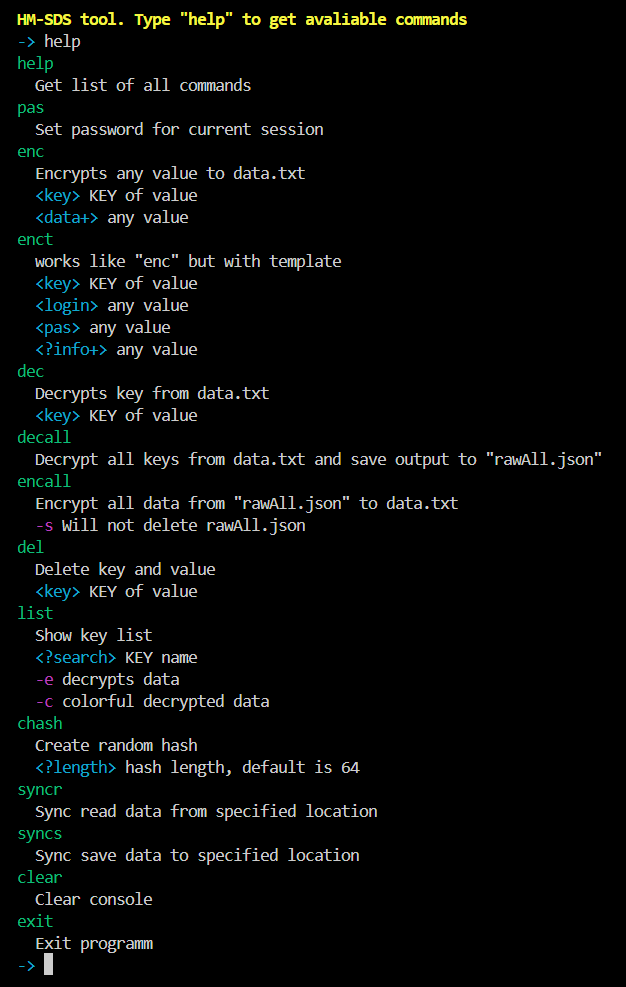
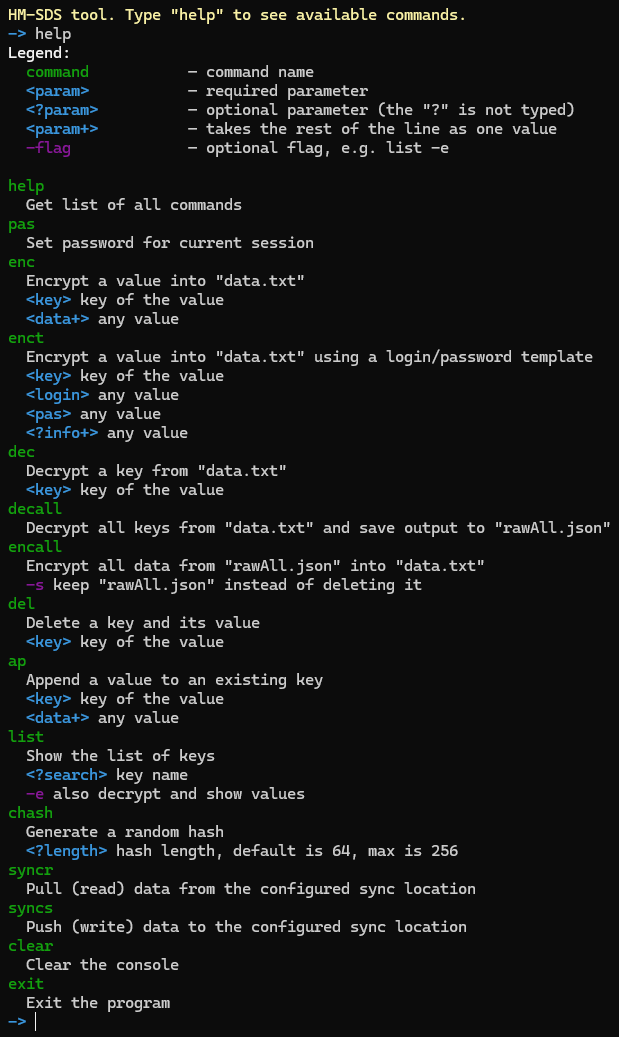
feat: 2.1.2, legend in help command & user text update & readme update

Changed region(s): [[0.0, 0.0, 0.9822, 1.0], [0.5218, 0.3343, 0.9515, 0.3647], [0.1842, 0.0608, 0.2149, 0.0912]]

diff --git a/index.js b/index.js
@@ -93,7 +93,9 @@ class CommandsManager {
 					result(res);
 				}
 			} else {
-				console.log("No command");
+				console.log(
+					FgRed + `Unknown command "${name}". Type "help" for a list.` + Reset,
+				);
 				result();
 			}
 		});
@@ -131,7 +133,7 @@ const initMessage = () => {
 	console.log(
 		Bright +
 			FgYellow +
-			'HM-SDS tool. Type "help" to get avaliable commands' +
+			'HM-SDS tool. Type "help" to see available commands.' +
 			Reset,
 	);
 };
@@ -139,7 +141,9 @@ const initMessage = () => {
 const passCheck = () => {
 	if (!password) {
 		console.log(
-			FgRed + 'Enter password before performing operation, type "pas"' + Reset,
+			FgRed +
+				'A password is required for this command. Type "pas" to set it.' +
+				Reset,
 		);
 		return false;
 	}
@@ -162,10 +166,10 @@ const paramsCheck = (command, params) => {
 
 		console.log(
 			FgRed +
-				"missing param" +
+				"Missing required parameter" +
 				Reset +
 				FgCyan +
-				` <${missingParam[0]}> ` +
+				` <${missingParam[0].replace(/^\?/, "")}> ` +
 				Reset +
 				`${missingParam[1]}`,
 		);
@@ -280,6 +284,33 @@ CM.add({
 		let result = "";
 		const keys = Object.keys(CM.commands);
 
+		const legend =
+			Bright +
+			"Legend:\n" +
+			Reset +
+			FgGreen +
+			"  command" +
+			Reset +
+			"           — command name\n" +
+			FgCyan +
+			"  <param>" +
+			Reset +
+			"           — required parameter\n" +
+			FgCyan +
+			"  <?param>" +
+			Reset +
+			'          — optional parameter (the "?" is not typed)\n' +
+			FgCyan +
+			"  <param+>" +
+			Reset +
+			"          — takes the rest of the line as one value\n" +
+			FgMagenta +
+			"  -flag" +
+			Reset +
+			"             — optional flag, e.g. list -e\n";
+
+		result += legend + "\n";
+
 		keys.forEach((key, i) => {
 			const command = CM.commands[key];
 
@@ -320,17 +351,16 @@ CM.add({
 			if (password) {
 				console.log(
 					FgYellow +
-						`Already typed :/` +
+						`A password is already set for this session.` +
 						Reset +
-						`\nTo set another password, follow this:
+						`\nTo change it, do the following:
 1. turn off autosync if you have it enabled
-2. backup "${DATA_FILE_NAME}"
-3. execute "decall" command
+2. back up "${DATA_FILE_NAME}"
+3. run "decall"
 4. delete "${DATA_FILE_NAME}"
-5. restart cli
-6. execute "pas" command and type new password
-7. execute "encall" command
-Profffffit`,
+5. restart the CLI
+6. run "pas" and type the new password
+7. run "encall"`,
 				);
 				return resolve();
 			}
@@ -382,9 +412,9 @@ Profffffit`,
 CM.add({
 	name: "enc",
 	description: {
-		main: `Encrypts any value to "${DATA_FILE_NAME}"`,
+		main: `Encrypt a value into "${DATA_FILE_NAME}"`,
 		params: [
-			["key", "KEY of value"],
+			["key", "key of the value"],
 			["data+", "any value"],
 		],
 		args: [],
@@ -404,9 +434,9 @@ CM.add({
 CM.add({
 	name: "enct",
 	description: {
-		main: `Encrypts any value to "${DATA_FILE_NAME}" with template`,
+		main: `Encrypt a value into "${DATA_FILE_NAME}" using a login/password template`,
 		params: [
-			["key", "KEY of value"],
+			["key", "key of the value"],
 			["login", "any value"],
 			["pas", "any value"],
 			["?info+", "any value"],
@@ -432,8 +462,8 @@ CM.add({
 CM.add({
 	name: "dec",
 	description: {
-		main: `Decrypts key from "${DATA_FILE_NAME}"`,
-		params: [["key", "KEY of value"]],
+		main: `Decrypt a key from "${DATA_FILE_NAME}"`,
+		params: [["key", "key of the value"]],
 		args: [],
 	},
 	callback: (params) => {
@@ -468,7 +498,7 @@ CM.add({
 
 		console.log(
 			FgGreen +
-				`Succesfuly decrypted all data to "${RAW_DATA_FILE_NAME}"` +
+				`Successfully decrypted all data to "${RAW_DATA_FILE_NAME}"` +
 				Reset,
 		);
 	},
@@ -477,9 +507,9 @@ CM.add({
 CM.add({
 	name: "encall",
 	description: {
-		main: `Encrypt all data from "${RAW_DATA_FILE_NAME}" to "${DATA_FILE_NAME}"`,
+		main: `Encrypt all data from "${RAW_DATA_FILE_NAME}" into "${DATA_FILE_NAME}"`,
 		params: [],
-		args: [["-s", `Will not delete "${RAW_DATA_FILE_NAME}"`]],
+		args: [["-s", `keep "${RAW_DATA_FILE_NAME}" instead of deleting it`]],
 	},
 	callback: (_, flags) => {
 		const dirData = getDirData();
@@ -502,15 +532,15 @@ CM.add({
 
 		saveData();
 
-		console.log(FgGreen + "Succesfuly encrypted all data" + Reset);
+		console.log(FgGreen + "Successfully encrypted all data" + Reset);
 	},
 });
 
 CM.add({
 	name: "del",
 	description: {
-		main: "Delete key and value",
-		params: [["key", "KEY of value"]],
+		main: "Delete a key and its value",
+		params: [["key", "key of the value"]],
 		args: [],
 	},
 	callback: (params) => {
@@ -530,9 +560,9 @@ CM.add({
 CM.add({
 	name: "ap",
 	description: {
-		main: "Append value to KEY",
+		main: "Append a value to an existing key",
 		params: [
-			["key", "KEY of value"],
+			["key", "key of the value"],
 			["data+", "any value"],
 		],
 		args: [],
@@ -555,9 +585,9 @@ CM.add({
 CM.add({
 	name: "list",
 	description: {
-		main: "Show key list",
-		params: [["?search", "KEY name"]],
-		args: [["-e", "decrypts data"]],
+		main: "Show the list of keys",
+		params: [["?search", "key name"]],
+		args: [["-e", "also decrypt and show values"]],
 	},
 	callback: (params, flags) => {
 		const keys = Object.keys(data);
@@ -596,24 +626,20 @@ CM.add({
 CM.add({
 	name: "chash",
 	description: {
-		main: "Create random hash",
-		params: [["?length", "hash length, default is 64"]],
+		main: "Generate a random hash",
+		params: [["?length", "hash length, default is 64, max is 256"]],
 		args: [],
 	},
 	callback: async (params) => {
 		const hashLength = Number(params[0]);
 
 		if (params[0]) {
-			if (!hashLength) {
-				return console.log(FgRed + "Wrong length" + Reset);
-			}
-
-			if (isNaN(hashLength)) {
-				return console.log(FgRed + "Length is not a number" + Reset);
+			if (isNaN(hashLength) || !hashLength) {
+				return console.log(FgRed + "Length must be a positive number" + Reset);
 			}
 
 			if (hashLength > 256) {
-				return console.log(FgRed + "Length must be less than 256" + Reset);
+				return console.log(FgRed + "Length must not exceed 256" + Reset);
 			}
 
 			if (hashLength < 0) {
@@ -653,13 +679,13 @@ CM.add({
 CM.add({
 	name: "syncr",
 	description: {
-		main: "Sync read data from specified location",
+		main: "Pull (read) data from the configured sync location",
 		params: [],
 		args: [],
 	},
 	callback: async () => {
 		if (!CONFIG.syncPath) {
-			console.log(FgRed + "syncPath not specified" + Reset);
+			console.log(FgRed + "syncPath is not set in config.json" + Reset);
 			return;
 		}
 
@@ -694,13 +720,13 @@ CM.add({
 CM.add({
 	name: "syncs",
 	description: {
-		main: "Sync write data to specified location",
+		main: "Push (write) data to the configured sync location",
 		params: [],
 		args: [],
 	},
 	callback: async () => {
 		if (!CONFIG.syncPath) {
-			console.log(FgRed + "syncPath not specified" + Reset);
+			console.log(FgRed + "syncPath is not set in config.json" + Reset);
 			return;
 		}
 
@@ -713,7 +739,7 @@ CM.add({
 CM.add({
 	name: "clear",
 	description: {
-		main: "Clear console",
+		main: "Clear the console",
 		params: [],
 		args: [],
 	},
@@ -727,7 +753,7 @@ CM.add({
 CM.add({
 	name: "exit",
 	description: {
-		main: "Exit programm",
+		main: "Exit the program",
 		params: [],
 		args: [],
 	},
